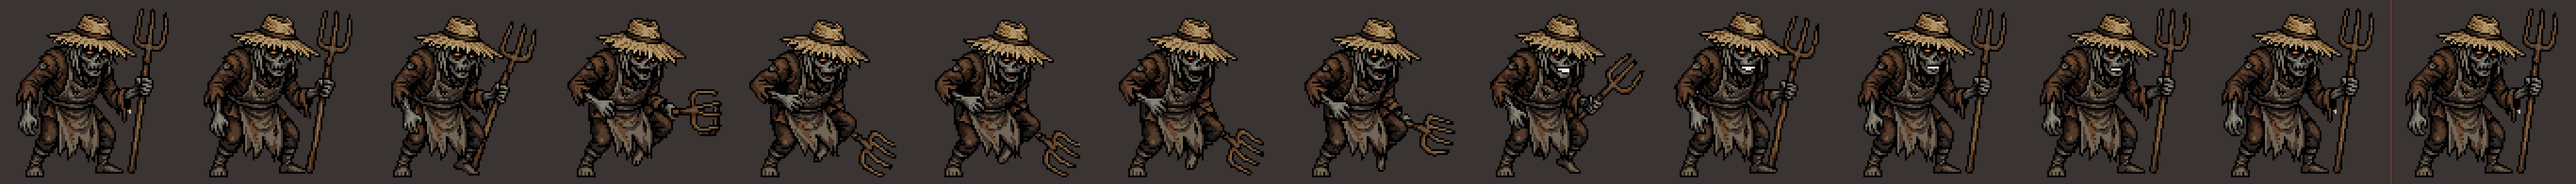
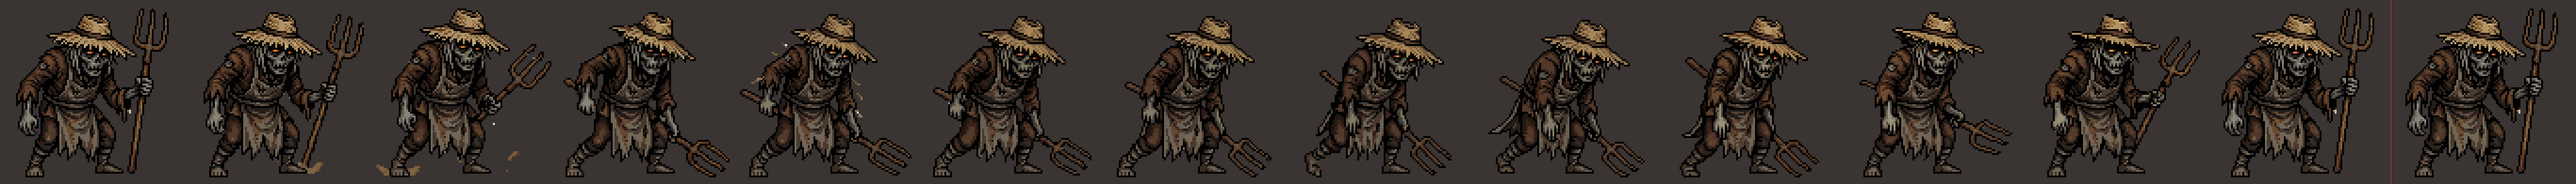
Lavrador Oco anda mancando com o corpo inteiro (12 quadros)
Dono: "so mexe o pezinho e a coisa na mao". O walk agora e uma cadeia de poses-chave desenhadas (duas passadas geradas com o idle como referencia) e interpoladas entre pinos: o forcado arrasta e levanta terra, palha cai das roupas, o corpo arremete e torce, a perna manca e arrastada, chapeu e casaco balancam, e no fim ele finca o forcado. Ultimo quadro = idle 0; test_enemy_entrances 731/0.

Changed region(s): [[0.0622, 0.0612, 0.8708, 0.9796]]

diff --git a/memory/enemy_entrances_art.md b/memory/enemy_entrances_art.md
@@ -132,4 +132,6 @@ Ancoras (`assets/sprites/world/anchors/`): frost_troll 110x59 monte de neve com 
 - wicker_effigy awaken (12q): o `animate_image` v3 lavou a efigie de DOURADO duas vezes mesmo com "never gold"; `animate_image_pixminimax` (mesmos pinos: efigie apagada -> idle) deu fogo de verdade: brasas caem, faisca no peito, as chamas explodem em ASAS vermelho-laranja no pico (5-7) e assentam nas tres chamas do idle. Dois quadros (9-10) tinham manchas BRANCAS nos ombros: recoloridas para amarelo de chama no instalador (691 px). O dourado do trancado no pico fica: le como reflexo do fogo. Ancora = `wicker_effigy_anchor.png` (efigie apagada, igual ao quadro 0).
 - harvest_reaper form (12q): v3 estourava trigo e foice em BRANCO; pixminimax a partir da silhueta fantasma (`derive ghost`: 12 % da cor, 35 % de alpha) revela o ceifador de CIMA para BAIXO (foice, capuz e trigo, corpo por ultimo), brilho so na lamina. Nevoa em `assets/sprites/world/anchors/harvest_reaper_anchor_0..3.png` (4 quadros de redemoinho lento, mesmo recorte, base = chao), still do `create_image_pro` animado com o primeiro e o ultimo quadro pinados no mesmo still; o `harvest_reaper_anchor.png` antigo continua para quem ja o le.
 - Licao: quando o v3 insiste em "brilho que lava" (ouro, branco), troque de modelo, nao de prompt: o pixminimax respeita a paleta dos pinos. E o ultimo recurso de familia (uma ferramenta por familia ainda vale: animacao de personagem = v3, pixminimax so onde o v3 falhou duas vezes).
+- hollow_farmer walk v3 (dono: "so mexe o pezinho e a coisa na mao"): prompt de 12 quadros ainda saia contido, entao virou CADEIA de poses como o espantalho: dois stills de passada do `create_image_pro` com o idle de character base (`ato1/hollow_farmer_strideA_stills.png`; o lote B saiu em escala menor e foi descartado) e `stages hollow_farmer/walk` idle -> passada 1 -> passada 2 -> idle, 4 quadros cada, todos pinados: terra levanta com o forcado arrastando (1-2), palha caindo (4), corpo arremete e torce, perna manca arrastada (7-9), chapeu inclina com a cabeca, casaco cruza, finca o forcado. Sem o corvo (opcional no pedido).
+- Regra que sai desta rodada: para MAIS movimento, nao peca mais ao animador; DESENHE as poses-chave (stills com o idle de referencia) e deixe o animador so interpolar entre pinos.
 
